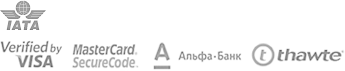
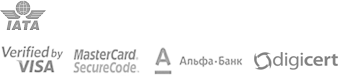
Логотип Digicert в подвале.

diff --git a/app/assets/stylesheets/common/footer.css b/app/assets/stylesheets/common/footer.css
@@ -54,7 +54,7 @@
 .pfp-other {
     width: 345px;
     height: 31px;
-    background-position: 0 -40px;
+    background-position: 0 -45px;
 }
 .pf-copyright {
     position: relative;
